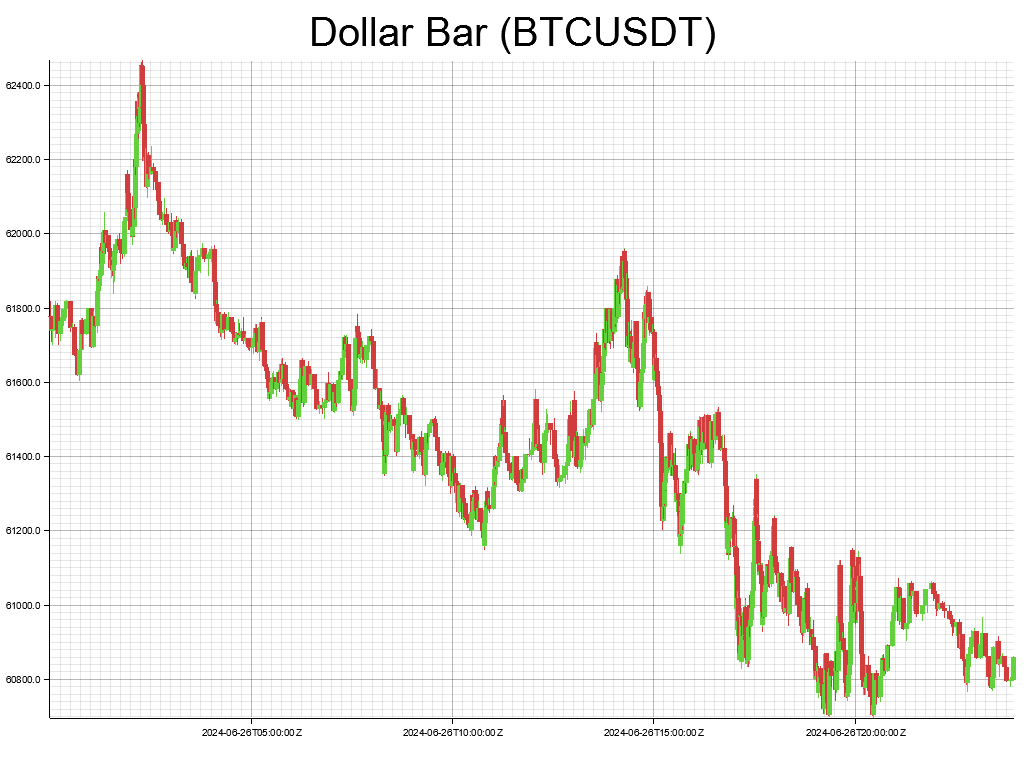
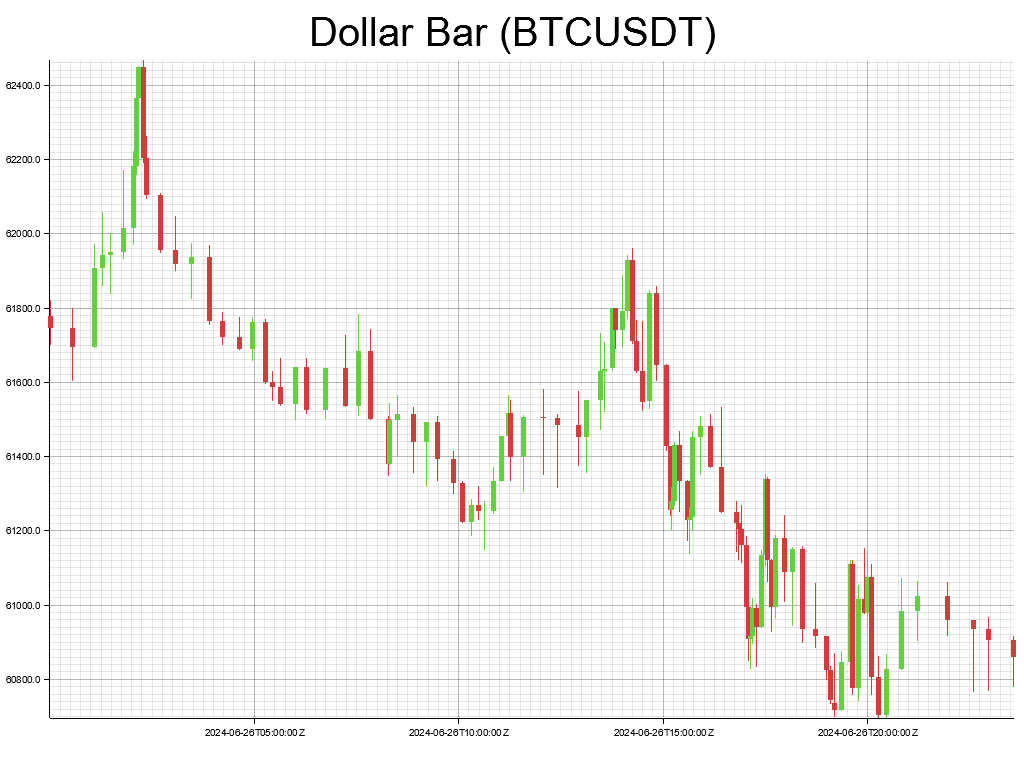
interval changed

diff --git a/src/ch2/dollar_bar.rs b/src/ch2/dollar_bar.rs
@@ -80,7 +80,7 @@ pub fn draw_dollar_bar() -> Result<(), Box<dyn Error>> {
     let trades = read_trades(file_path)?;
     println!("Read {} trades.", trades.len());
 
-    let interval_dollar = 10_000_000.0; // Example dollar threshold (10M USDT)
+    let interval_dollar = 100_000_000.0; // Example dollar threshold (100M USDT)
     println!("Computing {} dollar value as a bar...", interval_dollar);
     let bars = compute_dollar_bars(&trades, interval_dollar);
     println!("Generated {} bars.", bars.len());

diff --git a/src/ch2/volume_bar.rs b/src/ch2/volume_bar.rs
@@ -78,7 +78,7 @@ pub fn draw_volume_bar() -> Result<(), Box<dyn Error>> {
     let trades = read_trades(file_path)?;
     println!("Read {} trades.", trades.len());
 
-    let interval_volume = 100.0; // Example volume threshold
+    let interval_volume = 1000.0; // Example volume threshold
     println!("Computing {} volume as a bar...", interval_volume);
     let bars = compute_volume_bars(&trades, interval_volume);
     println!("Generated {} bars.", bars.len());
